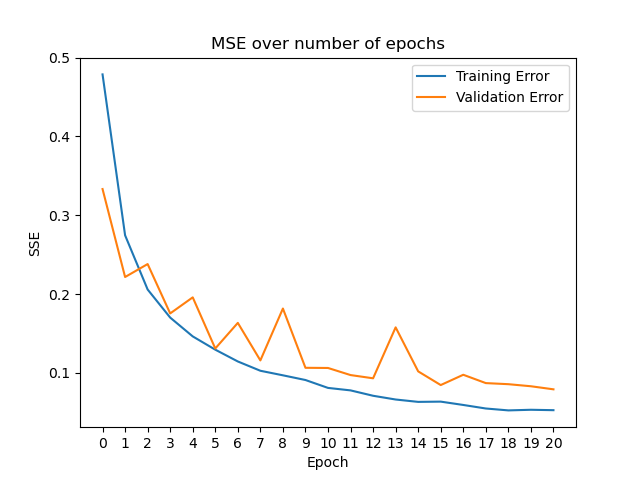
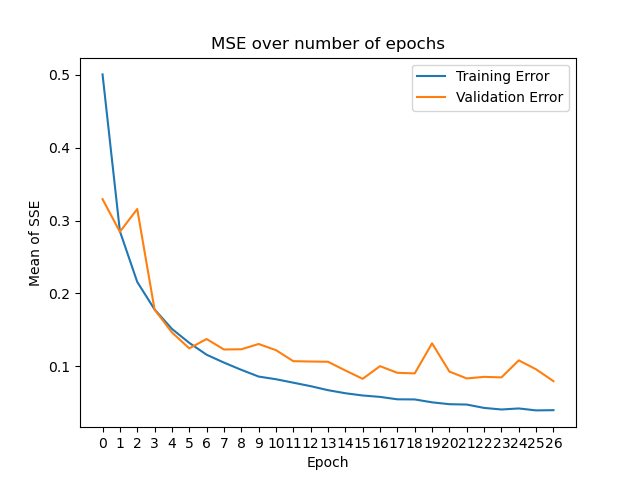
update graph and title

diff --git a/A1/homework1.py b/A1/homework1.py
@@ -246,7 +246,7 @@ xint = [int(epochnum) for epochnum in range(epoch+1)]
 plt.xticks(xint)
 
 plt.xlabel('Epoch') # num of epoch in x-axis
-plt.ylabel('SSE') # mean of SSE in y-axis
+plt.ylabel('Mean of SSE') # mean of SSE in y-axis
 plt.title("MSE over number of epochs")
 plt.legend()
 plt.savefig('error.pdf')
